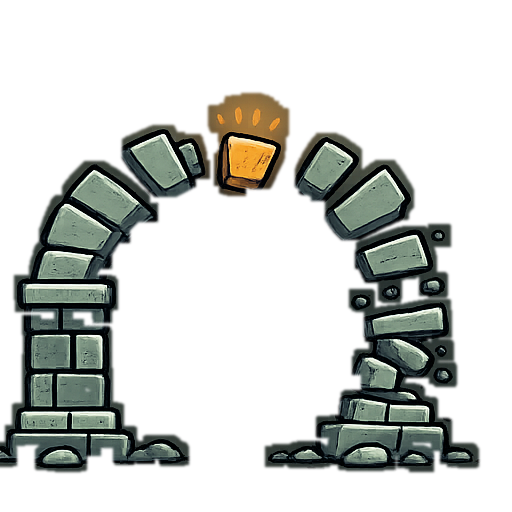
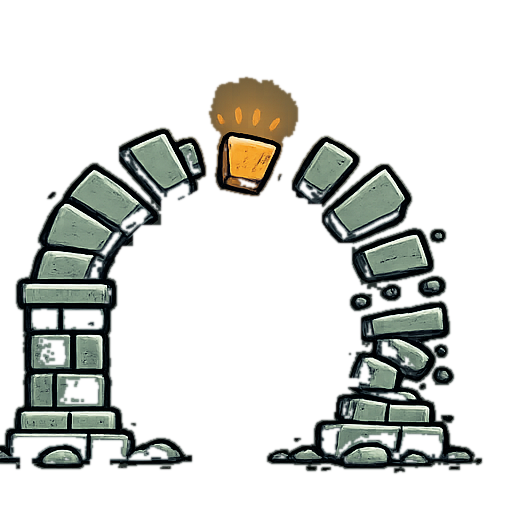
Clean arch-fall matte, reusable sheet slicer, and two new image assets
- tools/slice_sheet.py: reusable sprite-sheet slicer. Its matte keeps ink
  outlines + subject pixels and removes backdrop-coloured pixels even
  inside the protective ring around outlines, so sliced frames sit on the
  board with clean black lines and no grey halo.
- Re-slice the arch-collapse sheet with the new matte: the six
  arch_fall_* frames now have clean outlines instead of the grey
  background band.
- Import two owner-supplied transparent assets: keystone_flaw (a
  wedge-shaped keystone with a glowing crack seen through a magnifier -
  the "find the flaw" hero) and magnifying_glass.

Suite: 97 passed.

Claude-Session: https://claude.ai/code/session_016TNNbGA2Gucv4sCdA9M5fB

Changed region(s): [[0.0, 0.125, 0.9375, 0.9375]]

diff --git a/whiteboard/tools/slice_sheet.py b/whiteboard/tools/slice_sheet.py
@@ -1,0 +1,87 @@
+#!/usr/bin/env python3
+"""Slice an AI-generated sprite sheet into transparent animation frames.
+
+Designed for flat marker-style artwork on a plain (even gradient) backdrop:
+light stones / bright saturated accents / near-black ink outlines. The matte
+keeps ink and subject pixels and removes backdrop-coloured pixels even inside
+the protective ring around outlines, so frames sit on the board with clean
+black lines and no grey halo.
+
+Usage::
+
+    python3 tools/slice_sheet.py sheet.png --prefix arch_fall --cols 3 --rows 2
+"""
+
+from __future__ import annotations
+
+import argparse
+import sys
+from pathlib import Path
+
+import numpy as np
+from PIL import Image, ImageFilter
+
+WHITEBOARD_ROOT = Path(__file__).resolve().parents[1]
+OUT_DIR = WHITEBOARD_ROOT / "assets" / "images"
+
+
+def dilate(mask: np.ndarray, rounds: int) -> np.ndarray:
+    for _ in range(rounds):
+        padded = np.pad(mask, 1, mode="constant")
+        mask = (padded[:-2, 1:-1] | padded[2:, 1:-1] | padded[1:-1, :-2] |
+                padded[1:-1, 2:] | padded[1:-1, 1:-1] | padded[:-2, :-2] |
+                padded[:-2, 2:] | padded[2:, :-2] | padded[2:, 2:])
+    return mask
+
+
+def matte(image: Image.Image, ink_max_lum: int = 42, light_min_lum: int = 118,
+          accent_sat: float = 0.30, accent_min_lum: int = 100,
+          reach: int = 12) -> Image.Image:
+    """Alpha-matte marker artwork off a plain dark(ish) backdrop."""
+    arr = np.asarray(image.convert("RGB")).astype(np.int32)
+    r, g, b = arr[..., 0], arr[..., 1], arr[..., 2]
+    lum = (r * 299 + g * 587 + b * 114) // 1000
+    mx = arr.max(axis=2)
+    sat = (mx - arr.min(axis=2)) / np.maximum(mx, 1)
+
+    subject = (lum > light_min_lum) | ((sat > accent_sat) & (lum > accent_min_lum))
+    region = dilate(subject, reach)
+    ink = lum <= ink_max_lum
+    keep = region & (subject | ink)
+    # Heal anti-aliased seams between ink and subject without re-adding backdrop.
+    keep = dilate(keep, 1) & region
+
+    alpha = (keep * 255).astype(np.uint8)
+    rgba = np.dstack([np.asarray(image.convert("RGB")), alpha])
+    result = Image.fromarray(rgba, "RGBA")
+    result.putalpha(result.getchannel("A").filter(ImageFilter.GaussianBlur(0.8)))
+    return result
+
+
+def main() -> None:
+    parser = argparse.ArgumentParser(description=__doc__)
+    parser.add_argument("sheet", type=Path)
+    parser.add_argument("--prefix", required=True, help="output name prefix, e.g. arch_fall")
+    parser.add_argument("--cols", type=int, default=3)
+    parser.add_argument("--rows", type=int, default=2)
+    parser.add_argument("--ink-max-lum", type=int, default=42)
+    parser.add_argument("--out-dir", type=Path, default=OUT_DIR)
+    args = parser.parse_args()
+
+    sheet = matte(Image.open(args.sheet), ink_max_lum=args.ink_max_lum)
+    width, height = sheet.size
+    args.out_dir.mkdir(parents=True, exist_ok=True)
+    count = 0
+    for row in range(args.rows):
+        for col in range(args.cols):
+            cell = sheet.crop((col * width // args.cols, row * height // args.rows,
+                               (col + 1) * width // args.cols, (row + 1) * height // args.rows))
+            count += 1
+            path = args.out_dir / f"{args.prefix}_{count}.png"
+            cell.save(path)
+            print(f"wrote {path.name}")
+    print(f"{count} frames from {args.sheet.name}")
+
+
+if __name__ == "__main__":
+    main()
